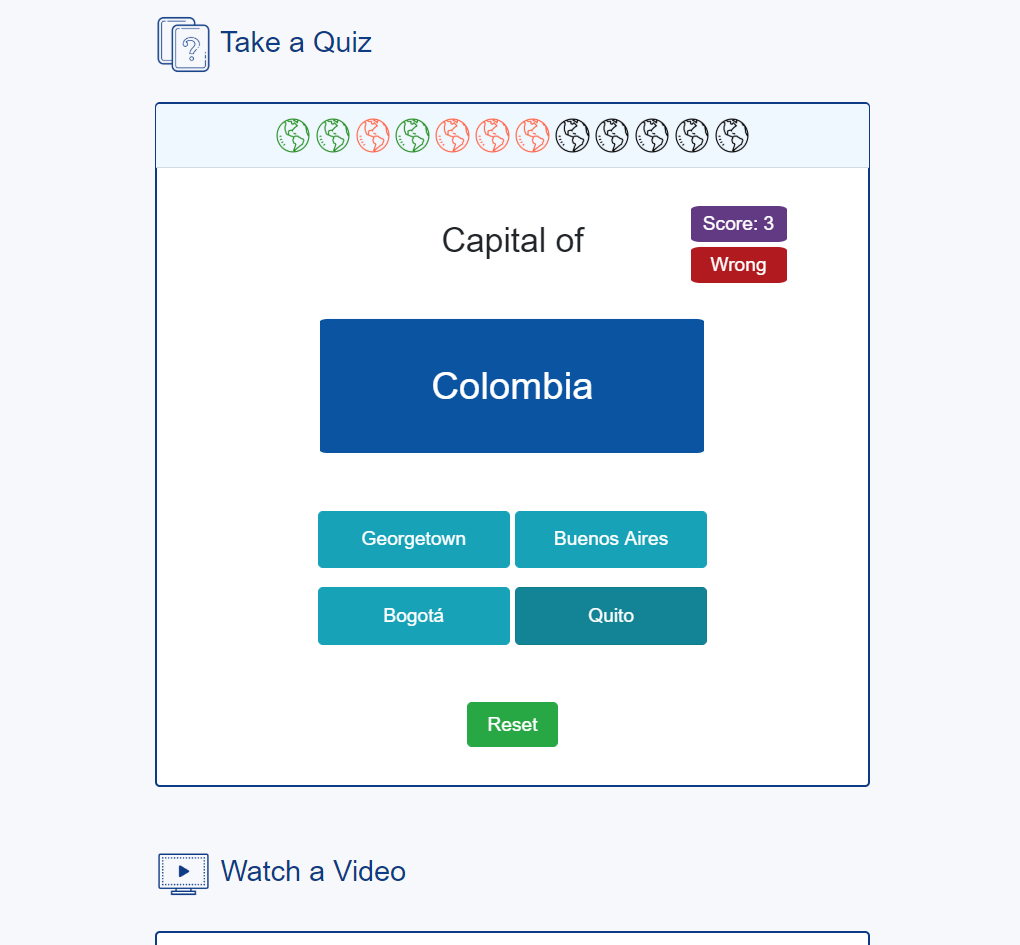
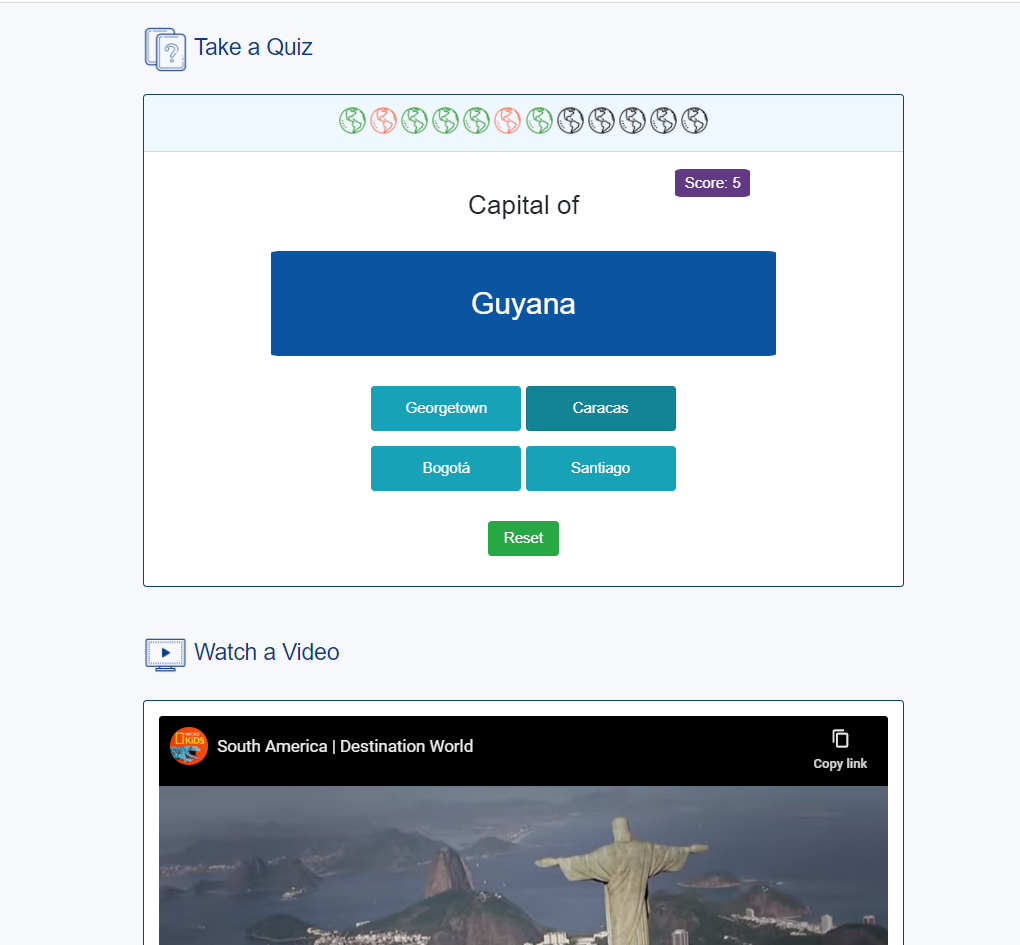
Change lesson with quiz main image

diff --git a/index.html b/index.html
@@ -156,7 +156,7 @@
                             <p class="project-name">Lesson with Quiz</p>
                             <div class="project-img-box">
                                 <a href="OnlineSchool/index.html" target="_blank">
-                                <img class="img-fluid" alt="Project" src="images/schoolscreen1.png">
+                                <img class="img-fluid" alt="Project" src="images/schoolscreen3.png">
                                 </a>
                             </div>                            
                             <!--Technology-->                            
